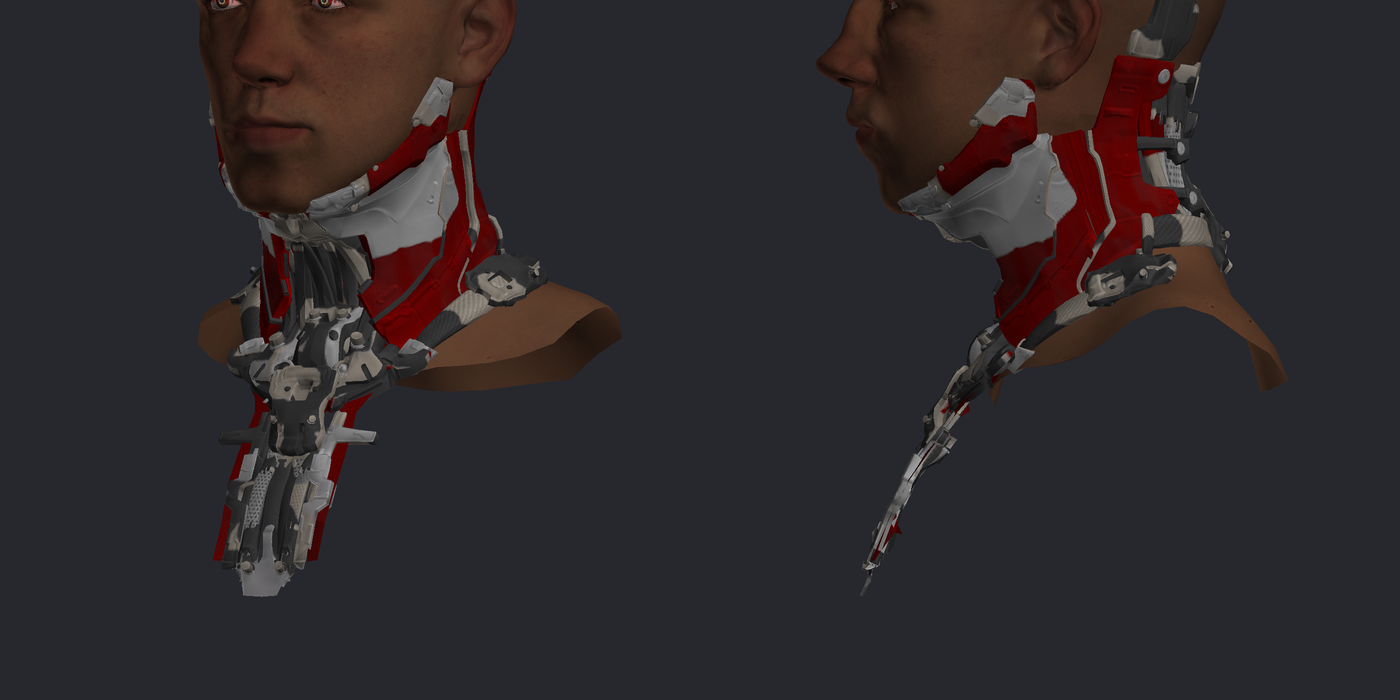
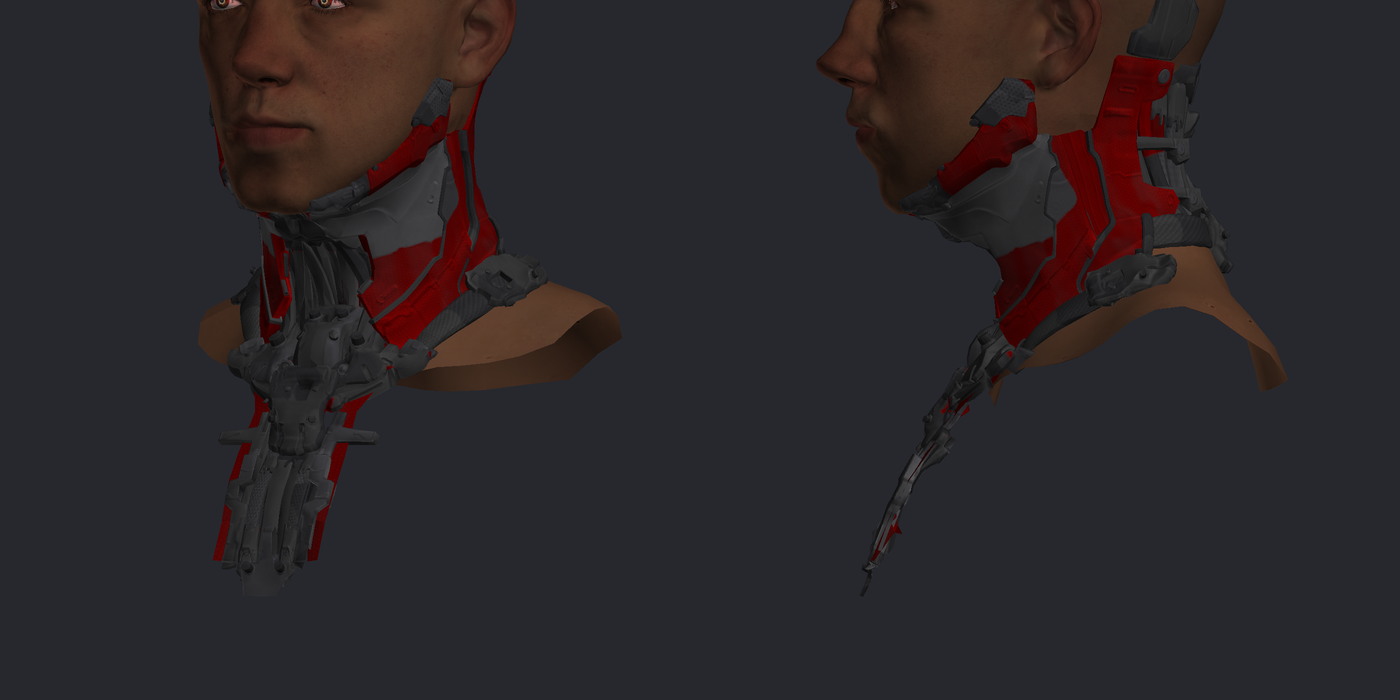
STAGING: neck cyberware recoloured black + red
Claude-Session: https://claude.ai/code/session_019USJoTMPWkGMgSSejE2vqd

diff --git a/tools/ml.py b/tools/ml.py
@@ -1,0 +1,101 @@
+"""Bake CP77 multilayered materials (mlsetup + mlmask + mltemplates) to flat albedo / roughness / metalness maps."""
+import sys,functools,numpy as np; sys.path.insert(0,'/home/claude/tools/scripts'); sys.path.insert(0,'/home/claude/work/build')
+import cr2w,xbm,garments,mlmask
+from PIL import Image
+MISSING=set()
+COLOR_OVERRIDE={}   # {layer index: linear rgb} - recolours a layer (e.g. Takemura white enamel -> black)
+LAYER_COLORS={}
+NORMALS=True
+@functools.lru_cache(None)
+def tex(path):
+    s=garments.segs_of(path)
+    if s is None: MISSING.add(path); return None
+    try: im=xbm.load(s)
+    except Exception as e: MISSING.add(path+' ('+str(e)+')'); return None
+    return np.asarray(im.convert('RGBA')).astype(np.float32)/255
+@functools.lru_cache(None)
+def template(path):
+    s=garments.segs_of(path)
+    if s is None: MISSING.add(path); return None
+    b=s[0]; r=cr2w.parse(b); return cr2w.chunk(b,r,0)[1]
+def ref(v): return v[1] if isinstance(v,tuple) and v and v[0]=='ref' else None
+def ov(lst,name,default):
+    for e in lst or []:
+        if e.get('n')==name: return e.get('v',[0.0]*len(default) if isinstance(default,list) else 0.0)   # unserialized = zero default
+    for e in lst or []:
+        if e.get('n')=='null': return e.get('v',default)
+    return default
+def srgb2lin(c): return np.where(c<=0.04045,c/12.92,((c+0.055)/1.055)**2.4)
+def lin2srgb(c): c=np.clip(c,0,1); return np.where(c<=0.0031308,c*12.92,1.055*c**(1/2.4)-0.055)
+def tiled(t,R,rep,ch=None):
+    """sample texture t tiled `rep` times across an RxR target, prefiltered (cheap mip)"""
+    if t is None: return None
+    h,w=t.shape[:2]; cell=R/max(rep,1e-3)              # target pixels per repeat
+    if rep<0.5:   # a tiny sliver of the texture stretched over the whole UV: CP reads it as a flat colour; magnifying it made big blotches/blocks
+        return np.broadcast_to(t.reshape(-1,t.shape[2]).mean(0) if t.ndim==3 else t.mean(),(R,R)+t.shape[2:]).astype(np.float32).copy()
+    sz=int(np.clip(cell,2,w))
+    small=np.asarray(Image.fromarray((t*255).astype(np.uint8)).resize((sz,sz),Image.LANCZOS)).astype(np.float32)/255
+    # bilinear, wrapping (the old nearest lookup magnified small tiles into visible pixel blocks)
+    u=(np.arange(R)+0.5)*sz*rep/R-0.5; i0=np.floor(u).astype(np.int64); f=(u-i0).astype(np.float32); i0%=sz; i1=(i0+1)%sz
+    a=small[i0]*(1-f)[:,None,None] if small.ndim==3 else small[i0]*(1-f)[:,None]
+    b=small[i1]*f[:,None,None] if small.ndim==3 else small[i1]*f[:,None]
+    rows=a+b
+    fx=f[None,:,None] if rows.ndim==3 else f[None,:]
+    return rows[:,i0]*(1-fx)+rows[:,i1]*fx
+def bake(mlsetup,mlmask_path,R=1024):
+    s=garments.segs_of(mlsetup)
+    if s is None: MISSING.add(mlsetup); return None
+    b=s[0]; r=cr2w.parse(b); layers=cr2w.chunk(b,r,0)[1].get('layers',[])
+    ms=garments.segs_of(mlmask_path)
+    M=mlmask.load(ms) if ms else None
+    if M is None: MISSING.add(mlmask_path)
+    nxy=np.zeros((R,R,2),np.float32); col=np.ones((R,R,3),np.float32)*0.5; rough=np.full((R,R),0.6,np.float32); metal=np.zeros((R,R),np.float32); vis=[]; info=[]
+    for i,L in enumerate(layers):
+        if M is not None and i>=len(M): break
+        m=np.ones((R,R),np.float32) if (i==0 or M is None) else np.asarray(Image.fromarray(M[i]).resize((R,R),Image.BILINEAR)).astype(np.float32)/255
+        # CP mask mixer (per the WolvenKit Blender add-on): microblend alpha breaks up the layer mask at `microblendContrast`
+        c_=max(float(L.get('microblendContrast',1.0) if L.get('microblendContrast') is not None else 1.0),1e-5)
+        if c_<0.999 and i>0 and L.get('mbTile') is not None:   # no own mbTile: CP would stretch the noise over the garment -> blend smoothly
+            mbt=tex(ref(L.get('microblend')))
+            if mbt is not None:
+                mbr=float(L.get('mbTile') or L.get('matTile') or 1.0)
+                mba=tiled(mbt,R,mbr)[...,3]
+                if mba.min()>0.99: mba=tiled(mbt,R,mbr)[...,0]     # some microblends keep the height in R
+                mix=(m+mba-1)*(1-c_)+m*c_; m=np.clip(mix/c_,0,1)
+        m=m*float(L.get('opacity',1.0) if L.get('opacity') is not None else 1.0)
+        if any(k in (ref(L.get('material')) or '') for k in ('dirt_','dust_','grime','mud_')): m=m*0.2      # grime reads twice as heavy without CP's runtime microblend detail
+        if m.max()<=0.002: continue
+        if i>0 and L.get('colorScale') in ('null_null',None,'null'): continue      # placeholder layers (no colour set): CP leaves them as unpainted grey -> skip
+        T=template(ref(L.get('material')))
+        if T is None: continue
+        o=T.get('overrides',{})
+        rep=float(L.get('matTile',1.0))*float(T.get('tilingMultiplier',1.0))
+        ct=tiled(tex(ref(T.get('colorTexture'))),R,rep)
+        cs=np.array(ov(o.get('colorScale'),L.get('colorScale','null'),[1,1,1]),np.float32)
+        c=(srgb2lin(ct[...,:3]) if ct is not None else np.full((R,R,3),0.5,np.float32))*cs
+        LAYER_COLORS[i]=(cs.tolist(),float(m.mean()))
+        if i in COLOR_OVERRIDE: c=(srgb2lin(ct[...,:3]) if ct is not None else np.full((R,R,3),0.5,np.float32)).mean(-1,keepdims=True)/0.5*np.array(COLOR_OVERRIDE[i],np.float32)
+        rt=tiled(tex(ref(T.get('roughnessTexture'))),R,rep); rv=rt[...,0] if rt is not None else np.full((R,R),0.5,np.float32)
+        ro=ov(o.get('roughLevelsOut'),L.get('roughLevelsOut','null'),[1,0]); rv=ro[1]+(ro[0]-ro[1])*rv
+        mt=tiled(tex(ref(T.get('metalnessTexture'))),R,rep); mv=mt[...,0] if mt is not None else np.zeros((R,R),np.float32)
+        mo=ov(o.get('metalLevelsOut'),L.get('metalLevelsOut','null'),[1,0]); mv=mo[1]+(mo[0]-mo[1])*mv
+        if float(mv.mean())>0.5: c=np.minimum(c*1.8,0.22)   # metals: CP's colour is a dark F0 tint that only reads via reflections; Gmod needs a visible steel albedo
+        col=col*(1-m[...,None])+c*m[...,None]; rough=rough*(1-m)+rv*m; metal=metal*(1-m)+mv*m
+        nt=tiled(tex(ref(T.get('normalTexture'))),R,rep) if NORMALS else None     # per-layer surface normal (weave, perforation, grain)
+        if nt is not None:
+            ns=float(ov(o.get('normalStrength'),L.get('normalStrength','null'),1.0) or 0.0)
+            lxy=np.dstack([nt[...,0]*2-1,nt[...,1]*2-1])*ns
+            nxy=nxy*(1-m[...,None])+lxy*m[...,None]
+        vis=[v*(1-m) for v in vis]; vis.append(m.copy()); info.append((ref(T.get('colorTexture')),rep,ref(L.get('material'))))
+    # detail texture = the tiled surface that is actually VISIBLE most (after all layers above it), ignoring flat/huge-scale layers
+    best=None
+    for v,(t,rep,mat) in zip(vis,info):
+        if t is None or rep<1.5: continue
+        sc=float(v.mean())
+        if best is None or sc>best[0]: best=(sc,t,rep,mat)
+    dom=best
+    return dict(nxy=nxy,albedo=lin2srgb(col),rough=np.clip(rough,0,1),metal=np.clip(metal,0,1),detail=dom)
+if __name__=='__main__':
+    o=bake(sys.argv[1],sys.argv[2],512)
+    Image.fromarray((np.hstack([o['albedo'],np.dstack([o['rough']]*3),np.dstack([o['metal']]*3)])*255).astype(np.uint8)).save(sys.argv[3])
+    print('missing',MISSING)

diff --git a/staging/manifest.md b/staging/manifest.md
@@ -6,7 +6,7 @@ Source preset: `takemura hades edition.preset` (40 options, resolved against `ma
 |---|---|---|
 | Head mesh | Hades Edition head (re-sculpted, 6,864 verts) | Hades_Edition_Takemura_Cyberware__Head |
 | Face shape | eyes h141, nose h102, mouth h143, jaw h034 (vanilla deltas transferred by nearest vertex) | base morphs |
-| Neck cyberware | Takemura / Arasaka agent neck (57k verts, multilayered) | Hades_Edition_Takemura_Cyberware__Head |
+| Neck cyberware | Takemura neck (57k verts, multilayered), recoloured black + red (iron/steel/titanium layers -> black, red enamel kept) | Hades_Edition_Takemura_Cyberware__Head |
 | Skin | 05_bl_espresso (overrides preset pale), skin type 01 detail (basehead_d01); alt 06_bl_dark | base |
 | Eyes | eye_14 (overrides preset eye colour) | HighTech_Eyes_pack |
 | Brows | style 08, black_carbon | base |
